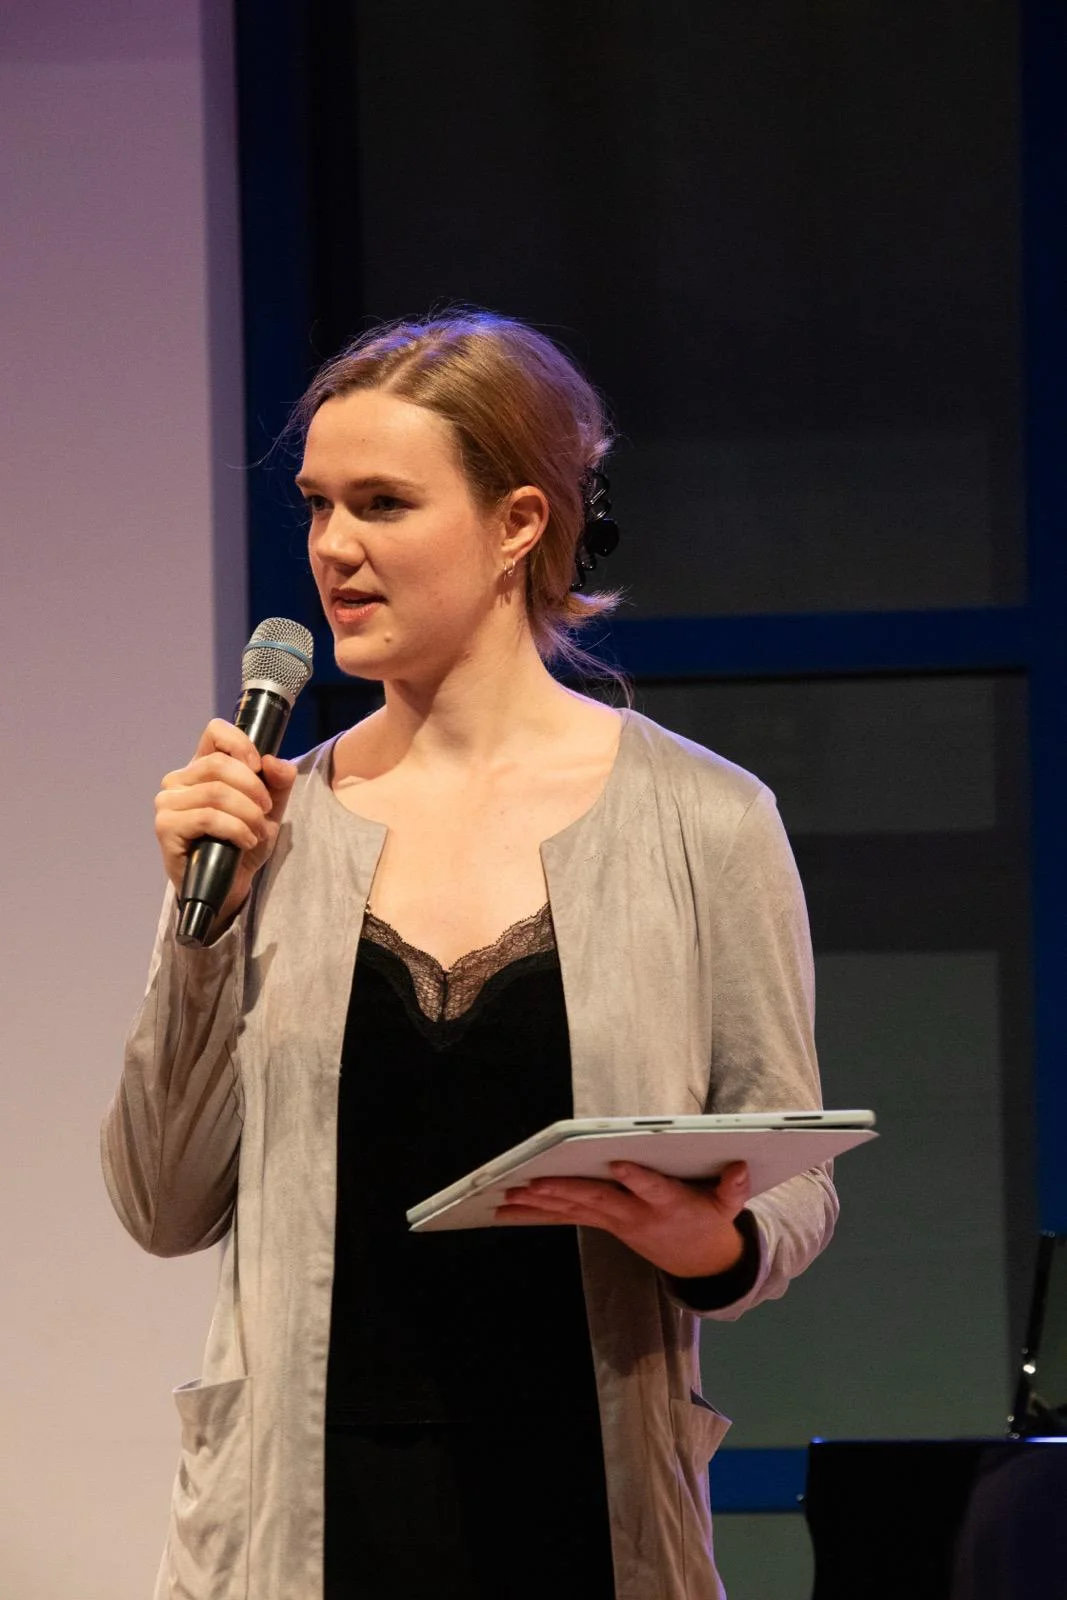
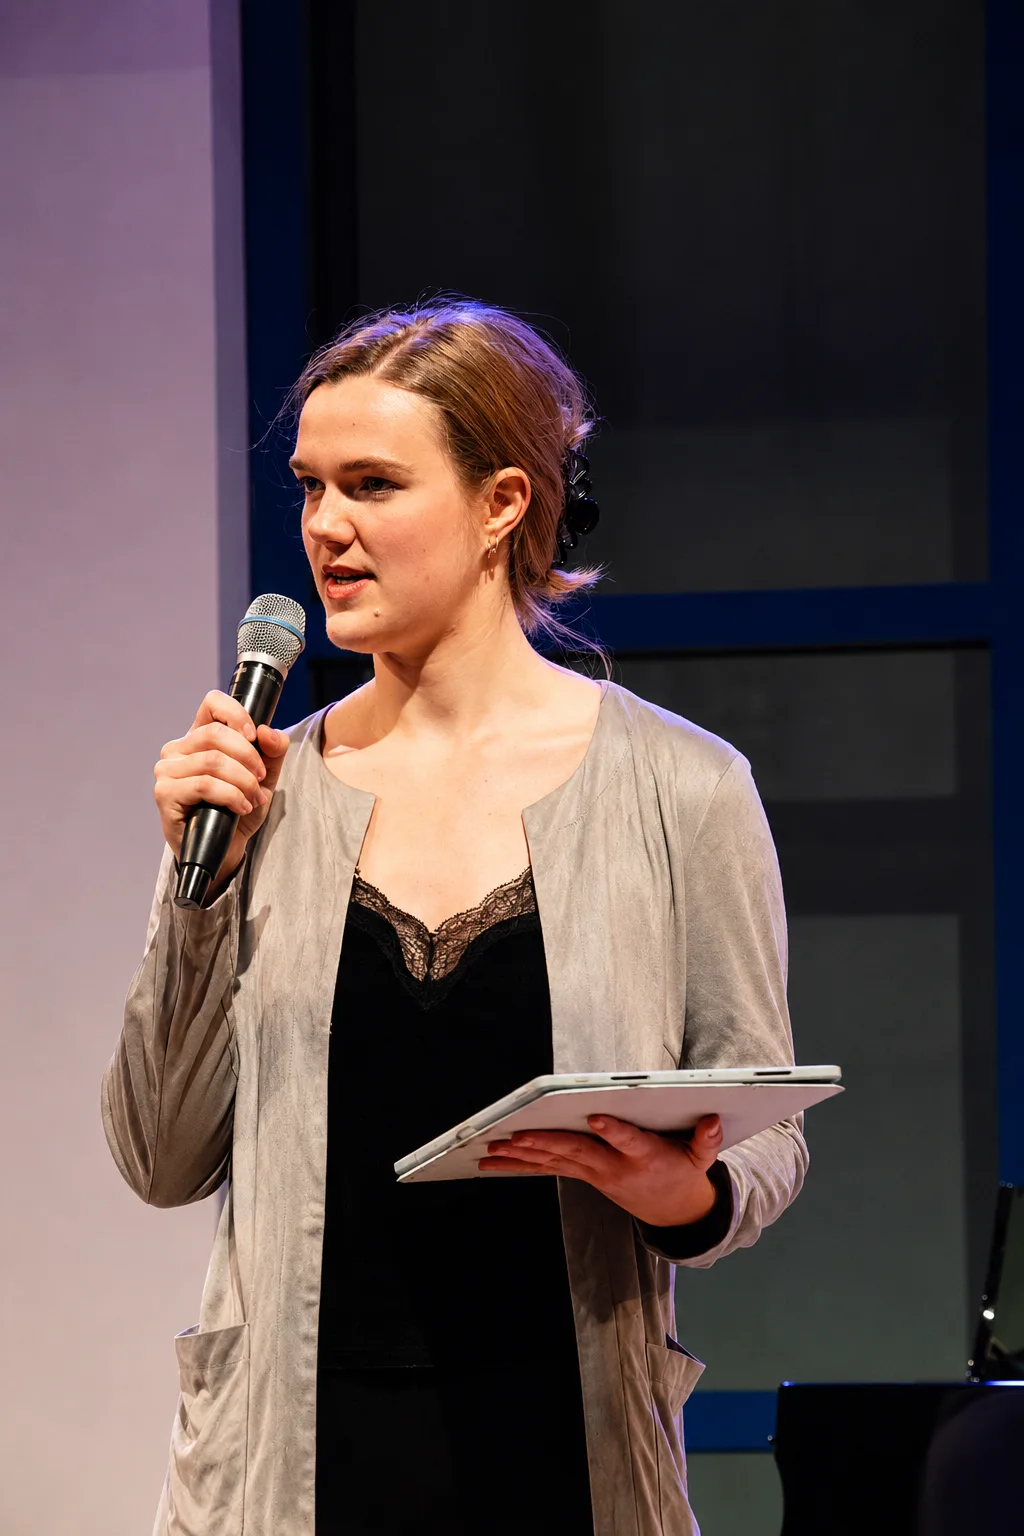
Hero (Desktop): Dramaturgie-Hover-Bild ersetzt
Neues Foto in besserer Qualität (1024x1536 Portrait, 92 KB WebP)
für die Desktop-Hover-Background. Komposition vergleichbar mit
dem alten — bestehende position "center 25%" bleibt sinnvoll.

Alt-Text + Bildnachweis-Beschreibung an neue Komposition
angepasst (Cardigan + Mikro + Tablet, blau-violetter Hintergrund).

Mobile, HomeFelder und alle anderen Stellen unverändert.

Changed region(s): [[0.0938, 0.0, 0.8438, 1.0], [0.9688, 0.875, 1.0, 0.9062], [0.75, 0.9062, 0.7812, 0.9375]]

diff --git a/lib/images.ts b/lib/images.ts
@@ -50,9 +50,9 @@ export const heroImages: Record<Feld, ImageEntry> = {
   dramaturgie: {
     src: "/images/hero/hero-dramaturgie.webp",
     alt:
-      "Annika Spegg mit Mikrofon und Skript auf der Bühne, im Halbprofil — dramaturgische Bühnensituation.",
-    width: 1067,
-    height: 1600,
+      "Annika Spegg im grauen Cardigan und schwarzen Top, hält das Mikrofon zum Mund und ein Tablet in der anderen Hand, vor blau-violettem Bühnenhintergrund.",
+    width: 1024,
+    height: 1536,
     // Portrait-Quelle in landscape-Hero: Gesicht liegt im oberen Drittel der Quelle.
     // "center 25%" hält Annikas Gesicht klar im sichtbaren Ausschnitt.
     position: "center 25%",

diff --git a/content/bildnachweise.ts b/content/bildnachweise.ts
@@ -28,7 +28,7 @@ export const bildnachweise: Bildnachweis[] = [
   {
     usage: "Startseite — Hero (Dramaturgie)",
     description:
-      "Annika Spegg mit Mikrofon und Skript auf der Bühne, im Halbprofil.",
+      "Annika Spegg im grauen Cardigan mit Mikrofon und Tablet vor blau-violettem Bühnenhintergrund.",
     file: "hero-dramaturgie.webp",
     photographer: TBD,
   },
